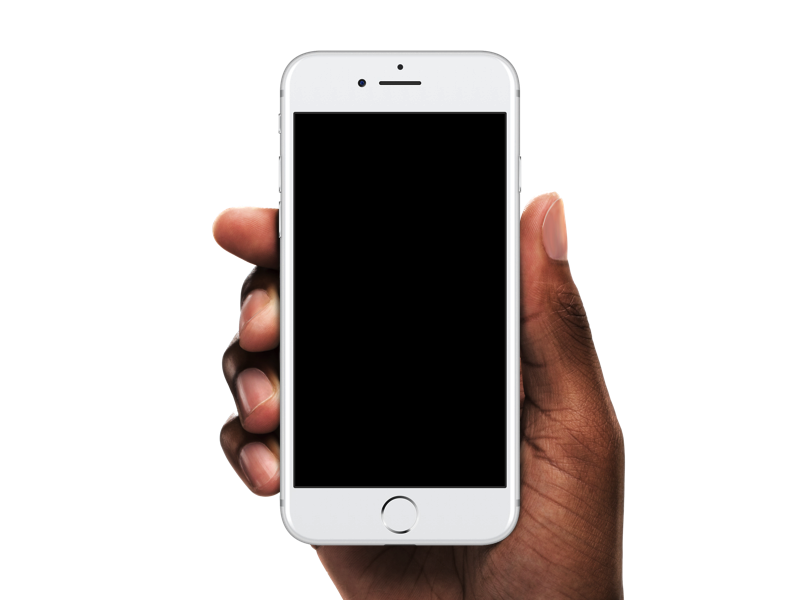
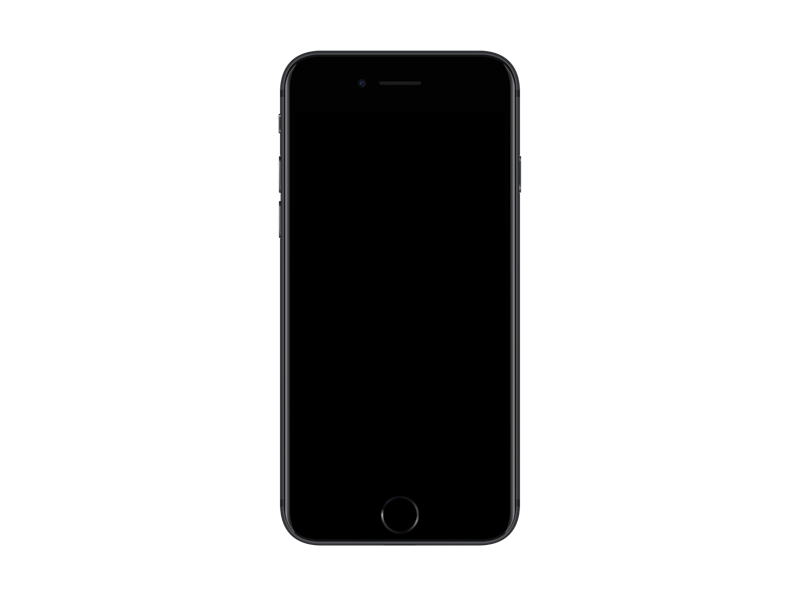
Last changes done

Changed region(s): [[0.25, 0.06, 0.7812, 1.0]]

diff --git a/Project/macFramer.framer/framer/framer.generated.js b/Project/macFramer.framer/framer/framer.generated.js
@@ -10745,9 +10745,9 @@ window.__imported__["Filtered-yes@1x/layers.json.js"] = [
 	}
 ]
 if (DeviceComponent) {DeviceComponent.Devices["iphone-6-silver"].deviceImageJP2 = false};
-if (window.Framer) {window.Framer.Defaults.DeviceView = {"deviceScale":"fit","selectedHand":"iphone-hands-1","deviceType":"apple-iphone-7-silver","contentScale":1,"orientation":0};
+if (window.Framer) {window.Framer.Defaults.DeviceView = {"deviceScale":"fit","selectedHand":"","deviceType":"apple-iphone-7-black","contentScale":1,"hideBezel":true,"orientation":0};
 }
-if (window.Framer) {window.Framer.Defaults.DeviceComponent = {"deviceScale":"fit","selectedHand":"iphone-hands-1","deviceType":"apple-iphone-7-silver","contentScale":1,"orientation":0};
+if (window.Framer) {window.Framer.Defaults.DeviceComponent = {"deviceScale":"fit","selectedHand":"","deviceType":"apple-iphone-7-black","contentScale":1,"hideBezel":true,"orientation":0};
 }
 window.FramerStudioInfo = {"deviceImagesUrl":"\/_server\/resources\/DeviceImages","documentTitle":"macFramer.framer"};
 
